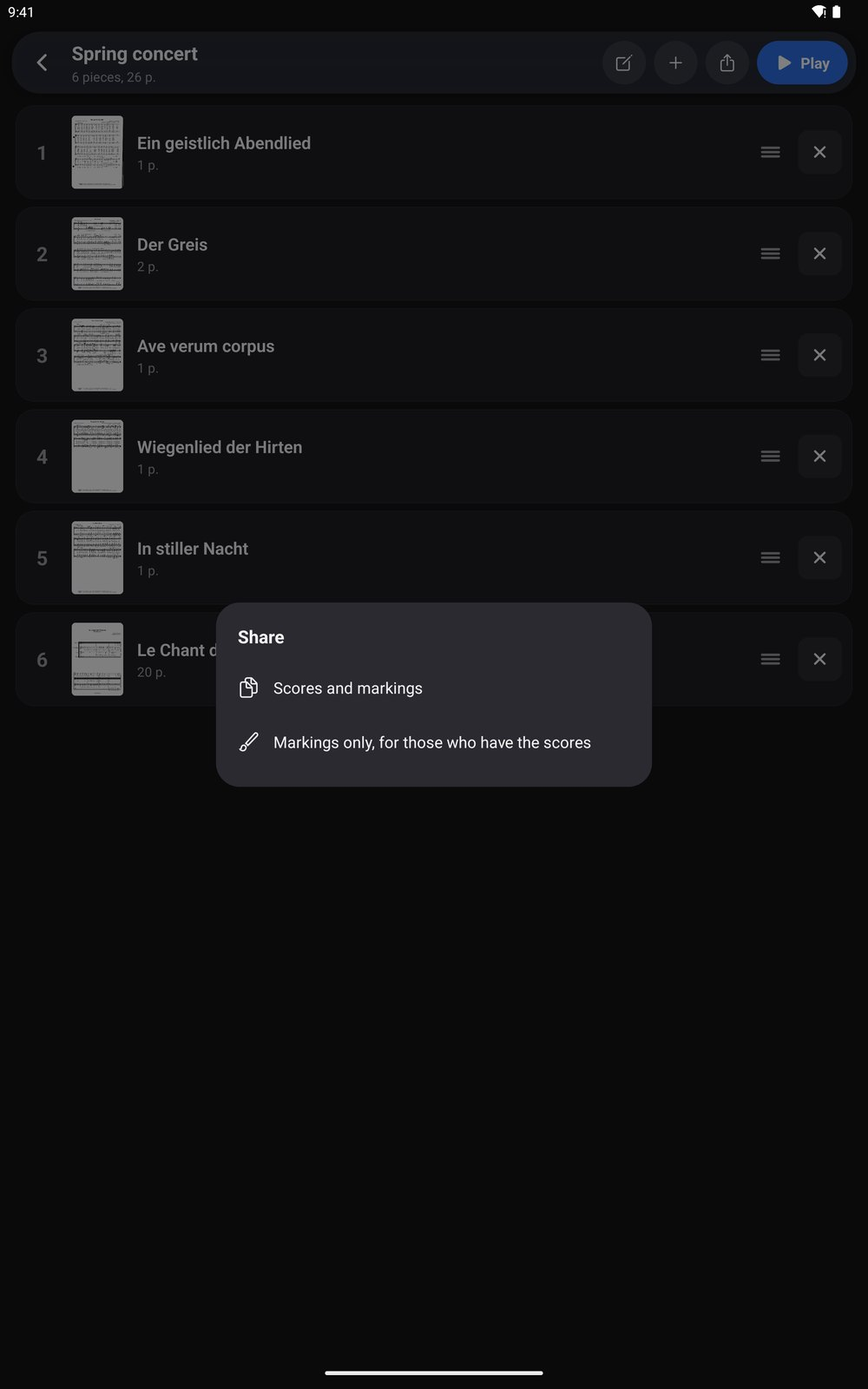
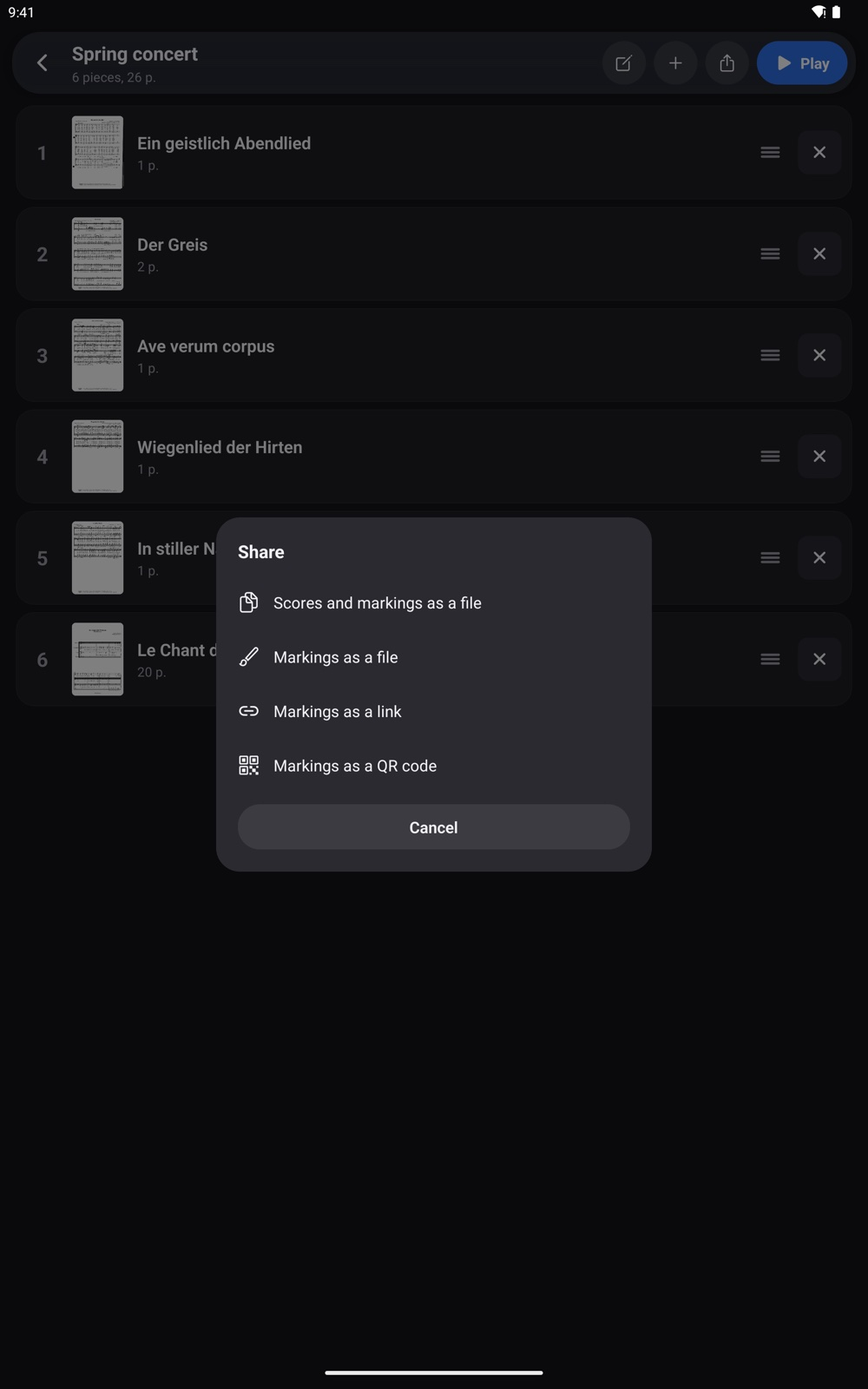
Site from stavora 8f461a3

Changed region(s): [[0.248, 0.375, 0.775, 0.625]]

diff --git a/fi/index.html b/fi/index.html
@@ -94,6 +94,10 @@
   .btn.primary { background: var(--grad); color: #fff; box-shadow: 0 12px 30px -12px rgba(31, 95, 224, 0.8); }
   .btn.ghost { color: var(--ink); border: 1px solid var(--line); background: var(--panel); }
   .soon { font-size: 14px; color: var(--ink-mute); }
+  
+  .minor { list-style: none; padding: 0; margin: 28px 0 0; display: grid; grid-template-columns: repeat(2, 1fr); gap: 14px 32px; color: var(--ink-soft); }
+  @media (max-width: 700px) { .minor { grid-template-columns: 1fr; } }
+  .minor b { color: var(--ink); display: block; }
 
   
   
@@ -173,7 +177,7 @@
       <div>
         <span class="eyebrow">Kuorolaisille ja muusikoille</span>
         <h1><span>Enemmän <em>nuottia.</em></span> <span>Vähemmän paperia.</span></h1>
-        <p class="lead">Stavora rajaa PDF-nuoteista tyhjät marginaalit pois ja suoristaa vinot skannaukset, jotta nuotti täyttää näytön. Merkitse kynällä ja käännä sivua napautuksella tai pedaalilla – kuoroharjoituksessa, konsertissa tai kotona.</p>
+        <p class="lead">Stavora rajaa PDF-nuoteista tyhjät marginaalit pois ja suoristaa vinot skannaukset, jotta nuotti täyttää näytön. Merkitse kynällä ja käännä sivua napautuksella tai pedaalilla – kuoroharjoituksessa, konsertissa tai kotona. Jaa settilista merkintöineen koko kuorolle yhdellä napautuksella.</p>
         <div class="actions">
           <a class="btn primary" href="#features">Katso ominaisuudet</a>
           <span class="soon">Tulossa iPadille ja Android-tableteille, toimii myös puhelimissa</span>
@@ -193,42 +197,49 @@
           <h3>Automaattinen rajaus</h3><p>Tyhjät marginaalit rajataan tuonnissa pois, myös skannatuista nuoteista. Reunoille kirjoitetut merkinnät säilyvät, rei'itykset ja roskat jäävät pois. Harmaa skannauspaperi kirkastuu valkoiseksi.</p>
         </div>
         <div class="feature">
-          <div class="ico"><svg width="24" height="24" viewBox="0 0 24 24" fill="none" stroke="currentColor" stroke-width="2" stroke-linecap="round" stroke-linejoin="round"><path d="M12 20h9M16.5 3.5a2.1 2.1 0 0 1 3 3L7 19l-4 1 1-4z"/></svg></div>
-          <h3>Merkinnät kynällä</h3><p>Kirjoita suoraan nuottiin: neljä väriä, korostuskynä, tekstimerkinnät, pyyhekumi ja kumoa. Aktiivikynällä kirjoitus alkaa heti, sormella käännät sivua. Alkuperäistä PDF:ää ei muuteta.</p>
-        </div>
-        <div class="feature">
           <div class="ico"><svg width="24" height="24" viewBox="0 0 24 24" fill="none" stroke="currentColor" stroke-width="2" stroke-linecap="round"><path d="M8 6h13M8 12h13M8 18h13M3 6h.01M3 12h.01M3 18h.01"/></svg></div>
           <h3>Settilistat</h3><p>Kokoa konsertin ohjelma raahaamalla. Viimeisen sivun jälkeen auki tulee suoraan seuraava kappale, ja nurkassa näkyy, mitä on tulossa.</p>
-        </div>
-        <div class="feature">
-          <div class="ico"><svg width="24" height="24" viewBox="0 0 24 24" fill="none" stroke="currentColor" stroke-width="2" stroke-linecap="round" stroke-linejoin="round"><rect x="3" y="14" width="8" height="6" rx="2"/><rect x="13" y="14" width="8" height="6" rx="2"/><path d="M7 14V9a5 5 0 0 1 10 0v5"/></svg></div>
-          <h3>Sivunkääntöpedaalit</h3><p>Bluetooth-pedaalit ja näppäimistöt kääntävät sivua: nuolinäppäimet, Page Up/Down, välilyönti ja Enter.</p>
-        </div>
-        <div class="feature">
-          <div class="ico"><svg width="24" height="24" viewBox="0 0 24 24" fill="none" stroke="currentColor" stroke-width="2" stroke-linecap="round" stroke-linejoin="round"><path d="M14 3H7a2 2 0 0 0-2 2v14a2 2 0 0 0 2 2h10a2 2 0 0 0 2-2V8z"/><path d="M14 3v5h5M12 18v-6M9 15l3 3 3-3"/></svg></div>
-          <h3>Tiedostoista ja pilvestä</h3><p>Valitse kerralla useita PDF:iä laitteelta tai pilvipalvelusta, kuten iCloud Drivesta, Google Drivesta tai Dropboxista. PDF:n voi myös avata toisesta sovelluksesta suoraan Stavoraan, ja koko kansion saa tuotua ZIP-tiedostona.</p>
-        </div>
-        <div class="feature">
-          <div class="ico"><svg width="24" height="24" viewBox="0 0 24 24" fill="none" stroke="currentColor" stroke-width="2" stroke-linecap="round" stroke-linejoin="round"><rect x="5" y="2" width="14" height="20" rx="2"/><path d="M12 18h.01"/></svg></div>
-          <h3>Tabletti ja puhelin</h3><p>Suunniteltu tabletille pystyasentoon, toimii myös puhelimessa. Vaakatasossa tabletti näyttää kaksi sivua, puhelin etenee nuottirivi kerrallaan.</p>
-        </div>
-        <div class="feature">
-          <div class="ico"><svg width="24" height="24" viewBox="0 0 24 24" fill="none" stroke="currentColor" stroke-width="2" stroke-linecap="round" stroke-linejoin="round"><path d="M5 21V4h11l-1.5 4L16 12H5"/></svg></div>
-          <h3>Harjoiteltavat kohdat</h3><p>Merkitse lipulla kohdat, joita pitää treenata. Kirjasto näyttää ne yhdellä napautuksella ja avaa suoraan oikean sivun.</p>
         </div>
         <div class="feature">
           <div class="ico"><svg width="24" height="24" viewBox="0 0 24 24" fill="none" stroke="currentColor" stroke-width="2" stroke-linecap="round" stroke-linejoin="round"><path d="M12 3v12M7 8l5-5 5 5M5 13v6a2 2 0 0 0 2 2h10a2 2 0 0 0 2-2v-6"/></svg></div>
           <h3>Jaa kuorolle tai bändille</h3><p>Settilista, nuotit ja merkinnät yhdessä paketissa, päivitykset pelkkinä merkintöinä. Jokaisen omat merkinnät säilyvät.</p>
         </div>
-        <div class="feature">
-          <div class="ico"><svg width="24" height="24" viewBox="0 0 24 24" fill="none" stroke="currentColor" stroke-width="2" stroke-linecap="round" stroke-linejoin="round"><path d="M9 18V5l11-2v13"/><circle cx="6" cy="18" r="3"/><circle cx="17" cy="16" r="3"/></svg></div>
-          <h3>Sävel ja metronomi</h3><p>Aloitussävel koskettimilta ja metronomi napautustempolla nuotin päällä kelluvassa paneelissa, myös äänettömällä.</p>
-        </div>
+      </div>
+      <ul class="minor">
+        <li><b>Harjoiteltavat kohdat</b> Merkitse lipulla kohdat, joita pitää treenata. Kirjasto näyttää ne yhdellä napautuksella ja avaa suoraan oikean sivun.</li>
+        <li><b>Merkinnät kynällä</b> Kirjoita suoraan nuottiin: neljä väriä, korostuskynä, tekstimerkinnät, pyyhekumi ja kumoa. Aktiivikynällä kirjoitus alkaa heti, sormella käännät sivua. Alkuperäistä PDF:ää ei muuteta.</li>
+        <li><b>Sävel ja metronomi</b> Aloitussävel koskettimilta ja metronomi napautustempolla nuotin päällä kelluvassa paneelissa, myös äänettömällä.</li>
+        <li><b>Sivunkääntöpedaalit</b> Bluetooth-pedaalit ja näppäimistöt kääntävät sivua: nuolinäppäimet, Page Up/Down, välilyönti ja Enter.</li>
+        <li><b>Tiedostoista ja pilvestä</b> Valitse kerralla useita PDF:iä laitteelta tai pilvipalvelusta, kuten iCloud Drivesta, Google Drivesta tai Dropboxista. PDF:n voi myös avata toisesta sovelluksesta suoraan Stavoraan, ja koko kansion saa tuotua ZIP-tiedostona.</li>
+        <li><b>Tabletti ja puhelin</b> Suunniteltu tabletille pystyasentoon, toimii myös puhelimessa. Vaakatasossa tabletti näyttää kaksi sivua, puhelin etenee nuottirivi kerrallaan.</li>
+      </ul>
+    </div>
+  </section>
+
+  
+  <section id="choir">
+    <div class="wrap">
+      <span class="eyebrow">Kuoroille ja bändeille</span>
+      <h2>Koko kuoro samalla sivulla</h2>
+      <p class="intro">Kuoronjohtaja merkitsee harjoiteltavat kohdat ja jakaa settilistan merkintöineen. Jokainen saa ne omaan nuottiinsa, ja omat merkinnät pysyvät omina.</p>
+      <div class="showcase">
+        <figure>
+          <div class="tablet"><img src="../assets/screens/practice.jpg" alt="Harjoiteltava kohta merkittynä oranssilla laatikolla ja lipulla" width="1000" height="1600" loading="lazy"></div>
+          <figcaption><b>Harjoiteltavat kohdat.</b> Lipulla merkitty kohta löytyy kirjastosta yhdellä napautuksella, ja sen saa pois, kun se on harjoiteltu.</figcaption>
+        </figure>
+        <figure>
+          <div class="tablet"><img src="../assets/screens/share.jpg" alt="Settilistan jako: nuotit ja merkinnät tai vain merkinnät" width="1000" height="1600" loading="lazy"></div>
+          <figcaption><b>Jaa kuorolle tai bändille.</b> Koko paketti kauden alkuun vaikka Driveen, viikon päivitykset WhatsAppiin. Ei tiliä eikä palvelinta.</figcaption>
+        </figure>
+        <figure>
+          <div class="tablet"><img src="../assets/screens/tools.jpg" alt="Sävelpilli koskettimineen nuotin päällä" width="1000" height="1600" loading="lazy"></div>
+          <figcaption><b>Sävel ja metronomi.</b> Aloitussävel ja tempo suoraan nuotista, ilman toista sovellusta.</figcaption>
+        </figure>
       </div>
     </div>
   </section>
 
-  <section>
+  <section class="alt">
     <div class="wrap">
       <h2>Kaikki olennainen, ei mitään ylimääräistä</h2>
       <p class="intro">Lukiessa näytöllä on vain nuotti. Työkalut tulevat esiin napauttamalla sivun keskeltä, kynätila pitämällä sormea hetken paikallaan.</p>
@@ -249,7 +260,7 @@
     </div>
   </section>
 
-  <section id="landscape" class="alt">
+  <section id="landscape">
     <div class="wrap">
       <h2>Kaksi sivua kerralla</h2>
       <p class="intro">Käännä tabletti vaakaan, niin näet kaksi sivua rinnakkain ja käännät harvemmin. Merkinnät kulkevat mukana.</p>
@@ -257,7 +268,7 @@
     </div>
   </section>
 
-  <section id="setlists">
+  <section id="setlists" class="alt">
     <div class="wrap split">
       <div>
         <h2>Konsertti yhtenä nuottina</h2>
@@ -272,28 +283,6 @@
     </div>
   </section>
 
-  
-  <section id="choir" class="alt">
-    <div class="wrap">
-      <span class="eyebrow">Uutta</span>
-      <h2>Koko kuoro samalla sivulla</h2>
-      <p class="intro">Kuoronjohtaja merkitsee harjoiteltavat kohdat ja jakaa settilistan merkintöineen. Jokainen saa ne omaan nuottiinsa, ja omat merkinnät pysyvät omina.</p>
-      <div class="showcase">
-        <figure>
-          <div class="tablet"><img src="../assets/screens/practice.jpg" alt="Harjoiteltava kohta merkittynä oranssilla laatikolla ja lipulla" width="1000" height="1600" loading="lazy"></div>
-          <figcaption><b>Harjoiteltavat kohdat.</b> Lipulla merkitty kohta löytyy kirjastosta yhdellä napautuksella, ja sen saa pois, kun se on harjoiteltu.</figcaption>
-        </figure>
-        <figure>
-          <div class="tablet"><img src="../assets/screens/share.jpg" alt="Settilistan jako: nuotit ja merkinnät tai vain merkinnät" width="1000" height="1600" loading="lazy"></div>
-          <figcaption><b>Jaa kuorolle tai bändille.</b> Koko paketti kauden alkuun vaikka Driveen, viikon päivitykset WhatsAppiin. Ei tiliä eikä palvelinta.</figcaption>
-        </figure>
-        <figure>
-          <div class="tablet"><img src="../assets/screens/tools.jpg" alt="Sävelpilli koskettimineen nuotin päällä" width="1000" height="1600" loading="lazy"></div>
-          <figcaption><b>Sävel ja metronomi.</b> Aloitussävel ja tempo suoraan nuotista, ilman toista sovellusta.</figcaption>
-        </figure>
-      </div>
-    </div>
-  </section>
 
   <section id="themes">
     <div class="wrap split">
@@ -327,7 +316,7 @@
         <p class="intro">Stavora toimii kokonaan laitteellasi.</p>
         <ul class="checks">
           <li><span>Ei käyttäjätiliä, ei mainoksia eikä seurantaa.</span></li>
-          <li><span>PDF:t ja merkinnät tallentuvat vain laitteelle. Sovellus ei lähetä niitä minnekään.</span></li>
+          <li><span>PDF:t ja merkinnät tallentuvat vain laitteelle. Ne lähtevät sieltä vain, kun itse jaat ne.</span></li>
           <li><span>PDF:t piirtää käyttöjärjestelmän oma PDF-moottori.</span></li>
           <li><span>Varmuuskopio on yksi ZIP-tiedosto, jonka tallennat itse haluamaasi paikkaan.</span></li>
         </ul>

diff --git a/index.html b/index.html
@@ -95,6 +95,10 @@
   .btn.primary { background: var(--grad); color: #fff; box-shadow: 0 12px 30px -12px rgba(31, 95, 224, 0.8); }
   .btn.ghost { color: var(--ink); border: 1px solid var(--line); background: var(--panel); }
   .soon { font-size: 14px; color: var(--ink-mute); }
+  
+  .minor { list-style: none; padding: 0; margin: 28px 0 0; display: grid; grid-template-columns: repeat(2, 1fr); gap: 14px 32px; color: var(--ink-soft); }
+  @media (max-width: 700px) { .minor { grid-template-columns: 1fr; } }
+  .minor b { color: var(--ink); display: block; }
 
   
   
@@ -174,7 +178,7 @@
       <div>
         <span class="eyebrow">For choir singers and musicians</span>
         <h1><span>More <em>music.</em></span> <span>Less paper.</span></h1>
-        <p class="lead">Stavora trims the empty margins from your PDF scores and straightens crooked scans so the music fills the screen. Mark it with a pen and turn pages with a tap or a pedal – in rehearsal, on stage or practising at home.</p>
+        <p class="lead">Stavora trims the empty margins from your PDF scores and straightens crooked scans so the music fills the screen. Mark it with a pen and turn pages with a tap or a pedal – in rehearsal, on stage or practising at home. Share a setlist with its markings with the whole choir in one tap.</p>
         <div class="actions">
           <a class="btn primary" href="#features">See the features</a>
           <span class="soon">Coming to iPad and Android tablets, works on phones too</span>
@@ -194,42 +198,49 @@
           <h3>Automatic cropping</h3><p>Empty margins are trimmed on import, scanned scores included. Notes written in the margins stay, hole punches and specks go, and grey scanned paper turns white.</p>
         </div>
         <div class="feature">
-          <div class="ico"><svg width="24" height="24" viewBox="0 0 24 24" fill="none" stroke="currentColor" stroke-width="2" stroke-linecap="round" stroke-linejoin="round"><path d="M12 20h9M16.5 3.5a2.1 2.1 0 0 1 3 3L7 19l-4 1 1-4z"/></svg></div>
-          <h3>Pen markings</h3><p>Write straight onto the score: four colours, a highlighter, text notes, an eraser and undo. With an active stylus you just start writing; your finger turns the page. The original PDF is never changed.</p>
-        </div>
-        <div class="feature">
           <div class="ico"><svg width="24" height="24" viewBox="0 0 24 24" fill="none" stroke="currentColor" stroke-width="2" stroke-linecap="round"><path d="M8 6h13M8 12h13M8 18h13M3 6h.01M3 12h.01M3 18h.01"/></svg></div>
           <h3>Setlists</h3><p>Put the concert programme together by dragging. After a piece's last page comes the next piece, and the corner shows what's next.</p>
-        </div>
-        <div class="feature">
-          <div class="ico"><svg width="24" height="24" viewBox="0 0 24 24" fill="none" stroke="currentColor" stroke-width="2" stroke-linecap="round" stroke-linejoin="round"><rect x="3" y="14" width="8" height="6" rx="2"/><rect x="13" y="14" width="8" height="6" rx="2"/><path d="M7 14V9a5 5 0 0 1 10 0v5"/></svg></div>
-          <h3>Page-turn pedals</h3><p>Bluetooth pedals and keyboards turn pages: arrow keys, Page Up/Down, Space and Enter.</p>
-        </div>
-        <div class="feature">
-          <div class="ico"><svg width="24" height="24" viewBox="0 0 24 24" fill="none" stroke="currentColor" stroke-width="2" stroke-linecap="round" stroke-linejoin="round"><path d="M14 3H7a2 2 0 0 0-2 2v14a2 2 0 0 0 2 2h10a2 2 0 0 0 2-2V8z"/><path d="M14 3v5h5M12 18v-6M9 15l3 3 3-3"/></svg></div>
-          <h3>From files and the cloud</h3><p>Pick several PDFs at once from the device or a cloud service such as iCloud Drive, Google Drive or Dropbox. You can also open a PDF from another app straight into Stavora, or bring in a whole folder as a ZIP.</p>
-        </div>
-        <div class="feature">
-          <div class="ico"><svg width="24" height="24" viewBox="0 0 24 24" fill="none" stroke="currentColor" stroke-width="2" stroke-linecap="round" stroke-linejoin="round"><rect x="5" y="2" width="14" height="20" rx="2"/><path d="M12 18h.01"/></svg></div>
-          <h3>Tablet and phone</h3><p>Designed for a tablet in portrait, and works on a phone too. In landscape a tablet shows two pages; a phone moves on one line of music at a time.</p>
-        </div>
-        <div class="feature">
-          <div class="ico"><svg width="24" height="24" viewBox="0 0 24 24" fill="none" stroke="currentColor" stroke-width="2" stroke-linecap="round" stroke-linejoin="round"><path d="M5 21V4h11l-1.5 4L16 12H5"/></svg></div>
-          <h3>Passages to practise</h3><p>Mark with the flag what needs work. The library lists those scores with one tap and opens each at the right page.</p>
         </div>
         <div class="feature">
           <div class="ico"><svg width="24" height="24" viewBox="0 0 24 24" fill="none" stroke="currentColor" stroke-width="2" stroke-linecap="round" stroke-linejoin="round"><path d="M12 3v12M7 8l5-5 5 5M5 13v6a2 2 0 0 0 2 2h10a2 2 0 0 0 2-2v-6"/></svg></div>
           <h3>Share with the choir or band</h3><p>The setlist, scores and markings in one package, and updates as markings only. Everyone’s own markings stay.</p>
         </div>
-        <div class="feature">
-          <div class="ico"><svg width="24" height="24" viewBox="0 0 24 24" fill="none" stroke="currentColor" stroke-width="2" stroke-linecap="round" stroke-linejoin="round"><path d="M9 18V5l11-2v13"/><circle cx="6" cy="18" r="3"/><circle cx="17" cy="16" r="3"/></svg></div>
-          <h3>Pitch and metronome</h3><p>The starting note from a keyboard and a metronome with tap tempo, floating over the score, with the silent switch on too.</p>
-        </div>
+      </div>
+      <ul class="minor">
+        <li><b>Passages to practise</b> Mark with the flag what needs work. The library lists those scores with one tap and opens each at the right page.</li>
+        <li><b>Pen markings</b> Write straight onto the score: four colours, a highlighter, text notes, an eraser and undo. With an active stylus you just start writing; your finger turns the page. The original PDF is never changed.</li>
+        <li><b>Pitch and metronome</b> The starting note from a keyboard and a metronome with tap tempo, floating over the score, with the silent switch on too.</li>
+        <li><b>Page-turn pedals</b> Bluetooth pedals and keyboards turn pages: arrow keys, Page Up/Down, Space and Enter.</li>
+        <li><b>From files and the cloud</b> Pick several PDFs at once from the device or a cloud service such as iCloud Drive, Google Drive or Dropbox. You can also open a PDF from another app straight into Stavora, or bring in a whole folder as a ZIP.</li>
+        <li><b>Tablet and phone</b> Designed for a tablet in portrait, and works on a phone too. In landscape a tablet shows two pages; a phone moves on one line of music at a time.</li>
+      </ul>
+    </div>
+  </section>
+
+  
+  <section id="choir">
+    <div class="wrap">
+      <span class="eyebrow">For choirs and bands</span>
+      <h2>The whole choir on the same page</h2>
+      <p class="intro">The conductor marks the passages to practise and shares the setlist with the markings. Everyone gets them in their own scores, and their own markings stay their own.</p>
+      <div class="showcase">
+        <figure>
+          <div class="tablet"><img src="./assets/screens/practice.jpg" alt="A passage to practise marked with an orange box and a flag" width="1000" height="1600" loading="lazy"></div>
+          <figcaption><b>Passages to practise.</b> A passage marked with the flag is a tap away in the library, and gone again once practised.</figcaption>
+        </figure>
+        <figure>
+          <div class="tablet"><img src="./assets/screens/share.jpg" alt="Sharing a setlist: scores and markings, or markings only" width="1000" height="1600" loading="lazy"></div>
+          <figcaption><b>Share with the choir or band.</b> The whole package for the start of the season in Drive, the week’s updates in WhatsApp. No account, no server.</figcaption>
+        </figure>
+        <figure>
+          <div class="tablet"><img src="./assets/screens/tools.jpg" alt="The pitch pipe’s keyboard over the score" width="1000" height="1600" loading="lazy"></div>
+          <figcaption><b>Pitch and metronome.</b> The starting note and the tempo right from the score, without another app.</figcaption>
+        </figure>
       </div>
     </div>
   </section>
 
-  <section>
+  <section class="alt">
     <div class="wrap">
       <h2>Everything you need, nothing you don't</h2>
       <p class="intro">While you read, only the music is on screen. Tap the middle of the page for the tools, or hold a finger still for a moment to start marking.</p>
@@ -250,7 +261,7 @@
     </div>
   </section>
 
-  <section id="landscape" class="alt">
+  <section id="landscape">
     <div class="wrap">
       <h2>Two pages at a time</h2>
       <p class="intro">Turn the tablet to landscape to see two pages side by side and turn less often. Your markings come along.</p>
@@ -258,7 +269,7 @@
     </div>
   </section>
 
-  <section id="setlists">
+  <section id="setlists" class="alt">
     <div class="wrap split">
       <div>
         <h2>A whole concert as one score</h2>
@@ -273,28 +284,6 @@
     </div>
   </section>
 
-  
-  <section id="choir" class="alt">
-    <div class="wrap">
-      <span class="eyebrow">New</span>
-      <h2>The whole choir on the same page</h2>
-      <p class="intro">The conductor marks the passages to practise and shares the setlist with the markings. Everyone gets them in their own scores, and their own markings stay their own.</p>
-      <div class="showcase">
-        <figure>
-          <div class="tablet"><img src="./assets/screens/practice.jpg" alt="A passage to practise marked with an orange box and a flag" width="1000" height="1600" loading="lazy"></div>
-          <figcaption><b>Passages to practise.</b> A passage marked with the flag is a tap away in the library, and gone again once practised.</figcaption>
-        </figure>
-        <figure>
-          <div class="tablet"><img src="./assets/screens/share.jpg" alt="Sharing a setlist: scores and markings, or markings only" width="1000" height="1600" loading="lazy"></div>
-          <figcaption><b>Share with the choir or band.</b> The whole package for the start of the season in Drive, the week’s updates in WhatsApp. No account, no server.</figcaption>
-        </figure>
-        <figure>
-          <div class="tablet"><img src="./assets/screens/tools.jpg" alt="The pitch pipe’s keyboard over the score" width="1000" height="1600" loading="lazy"></div>
-          <figcaption><b>Pitch and metronome.</b> The starting note and the tempo right from the score, without another app.</figcaption>
-        </figure>
-      </div>
-    </div>
-  </section>
 
   <section id="themes">
     <div class="wrap split">
@@ -328,7 +317,7 @@
         <p class="intro">Stavora runs entirely on your device.</p>
         <ul class="checks">
           <li><span>No account, no ads, no tracking.</span></li>
-          <li><span>PDFs and markings are stored only on the device. The app never sends them anywhere.</span></li>
+          <li><span>PDFs and markings are stored on the device only. They leave it only when you share them yourself.</span></li>
           <li><span>PDFs are drawn by the operating system's own PDF engine.</span></li>
           <li><span>A backup is one ZIP file that you save wherever you like.</span></li>
         </ul>

diff --git a/fi/docs/index.html b/fi/docs/index.html
@@ -66,7 +66,7 @@
   <h2 id="import">Nuottien tuonti</h2>
   <p>Paina kirjastossa <b>Tuo</b> ja valitse PDF-tiedostot. Voit valita kerralla useita, ja ne tulevat kirjastoon yhdellä kertaa. Androidilla pidä ensimmäistä tiedostoa painettuna, napauta muut ja paina <b>Valitse</b>. Valitsimesta pääsee pois takaisin-eleellä.</p><h3>Pilvipalvelut</h3><p>Tuonnissa näkyvät laitteen omat kansiot ja ne pilvipalvelut, joiden sovellus on asennettu, esimerkiksi iCloud Drive, Google Drive, Dropbox tai OneDrive.</p><p>iPadilla ja iPhonella iCloud Drive on mukana valmiiksi. Muut palvelut otetaan käyttöön Tiedostot-sovelluksessa: avaa sivupalkin <b>•••</b>-valikko, valitse <b>Muokkaa sivupalkkia</b> ja kytke palvelu päälle kohdassa Sijainnit. Androidilla palvelut näkyvät tiedostovalitsimessa valmiiksi. Sinulle jaetut kansiot löytyvät Google Drivessa kohdasta <b>Jaettu minulle</b>.</p><h3>Toisesta sovelluksesta</h3><p>Avaa PDF esimerkiksi Drivessa, Dropboxissa, sähköpostissa tai Tiedostoissa ja valitse <b>Avaa sovelluksessa</b> tai <b>Jaa → Stavora</b>. Androidilla jakaa voi useita PDF-tiedostoja kerralla. Nuotti avautuu heti.</p><h3>Koko kansio kerralla</h3><p>Tuo kansio ZIP-tiedostona. Google Drive ja Dropbox pakkaavat kansion ZIPiksi, kun lataat sen, ja Tiedostot-sovelluksessa kansion saa pakattua valinnalla <b>Pakkaa</b>. Nuotit tulevat samassa järjestyksessä kuin kansiossa, ja sovellus tarjoutuu tekemään niistä kansion nimisen settilistan.</p><p class="tip">Saman tiedoston tuominen uudelleen ei tee kaksoiskappaletta, vaan avaa jo kirjastossa olevan nuotin merkintöineen.</p>
   <h2 id="reading">Lukeminen</h2>
-  <ul><li><b>Sivun kääntö:</b> napauta sivun oikeaa tai vasenta reunaa tai pyyhkäise sivuttain. Reunojen leveyden voi säätää asetuksissa.</li><li><b>Työkalut:</b> napauta sivun keskeltä. Alareunassa näkyvät kaikki sivut, ja niistä pääsee suoraan haluamalleen sivulle.</li><li><b>Zoomaus:</b> nipistä. Zoomattua sivua vieritetään yhdellä sormella, ja kaksoisnapautus palauttaa koko sivun.</li><li><b>Vaakatasossa</b> tabletti näyttää kaksi sivua rinnakkain. Puhelimessa sivu täyttää leveyden ja kääntö etenee nuottirivi kerrallaan.</li><li><b>Sulkeminen:</b> takaisin-nuoli tai pitkä pyyhkäisy ylöspäin. Kun avaat nuotin kahden tunnin sisällä uudelleen, se jatkuu samalta sivulta, muuten se alkaa alusta.</li><li><b>Pedaalit:</b> Bluetooth-sivunkääntöpedaalit ja näppäimistöt toimivat ilman asetuksia: nuolinäppäimet, Page Up/Down, välilyönti ja Enter.</li></ul><p>Sovellus muistaa, mihin sivuun jäit, ja näyttö pysyy päällä nuottia luettaessa.</p>
+  <ul><li><b>Sivun kääntö:</b> napauta sivun oikeaa tai vasenta reunaa tai pyyhkäise sivuttain. Reunojen leveyden voi säätää asetuksissa.</li><li><b>Työkalut:</b> napauta sivun keskeltä. Alareunassa näkyvät kaikki sivut, ja niistä pääsee suoraan haluamalleen sivulle.</li><li><b>Zoomaus:</b> nipistä. Zoomattua sivua vieritetään yhdellä sormella, ja kaksoisnapautus palauttaa koko sivun.</li><li><b>Vaakatasossa</b> tabletti näyttää kaksi sivua rinnakkain. Puhelimessa sivu täyttää leveyden ja kääntö etenee nuottirivi kerrallaan.</li><li><b>Sulkeminen:</b> takaisin-nuoli tai pitkä pyyhkäisy ylös tai alas. Kun avaat nuotin kahden tunnin sisällä uudelleen, se jatkuu samalta sivulta, muuten se alkaa alusta.</li><li><b>Pedaalit:</b> Bluetooth-sivunkääntöpedaalit ja näppäimistöt toimivat ilman asetuksia: nuolinäppäimet, Page Up/Down, välilyönti ja Enter.</li></ul><p>Sovellus muistaa, mihin sivuun jäit, ja näyttö pysyy päällä nuottia luettaessa.</p>
   <h2 id="marking">Merkinnät</h2>
   <p>Kynätila avautuu työkalurivin kynäpainikkeesta tai pitämällä sormea hetken paikallaan sivulla. Valittavana ovat kynä neljällä värillä, korostuskynä, teksti (<b>Aa</b>), pyyhekumi ja kumoa. Sivua voi vaihtaa kynätilassakin. Tila suljetaan painamalla <b>✓</b>.</p><h3>Teksti</h3><p>Valitse <b>Aa</b> ja napauta kohtaa, johon haluat tekstin. Kirjoita teksti suoraan nuottiin. Olemassa olevaa tekstiä muokataan napauttamalla ja siirretään vetämällä.</p><h3>Harjoiteltavat kohdat</h3><p>Valitse kynätilassa lippu ja vedä laatikko harjoiteltavan kohdan ympärille. Laatikkoon tarttumalla sen voi siirtää ja kulmasta tarttumalla muuttaa sen kokoa. Kirjaston lippupainike näyttää nuotit, joissa on harjoiteltavaa, ja avaa ne suoraan oikealta sivulta. Kun kohta on harjoiteltu, poista laatikko kynätilassa sen kulman ✕-painikkeesta, tai kaikki kerralla lippunäkymän painikkeesta. Lukutilassa ✕ ei näy, joten konsertissa sitä ei napauta vahingossa.</p><h3>Kynällä ilman kynätilaa</h3><p>Aktiivikynällä (Apple Pencil, Tab Pen tms.) voit kirjoittaa suoraan lukutilassa: kynä piirtää ja sormi kääntää sivua. Viimeisen merkinnän kumoamiseen ilmestyy hetkeksi <b>Kumoa</b>-painike. Kynätilassa voit asettaa <b>Vain kynä piirtää</b> -asetuksen, jolloin sormi ei piirrä vahingossa.</p><p class="tip">Merkinnät tallentuvat erikseen, eikä alkuperäistä PDF:ää muuteta.</p>
   <h2 id="crop">Rajaus ja suoristus</h2>
@@ -75,7 +75,7 @@
   <p>Avaa kirjastosta <b>Settilistat</b> ja valitse <b>Uusi settilista</b>. Napauta kappaleita siinä järjestyksessä kuin ne lauletaan. Järjestystä voi muuttaa vetämällä rivin oikean reunan kahvasta. Nuotteja saa lisättyä settilistaan myös kirjastosta: yhden pitämällä nuottia painettuna, useita kerralla valinnalla <b>Valitse useita</b>.</p><p>Kun painat <b>Aloita</b>, kappaleet ovat peräkkäin kuin yhtenä vihkona: viimeisen sivun jälkeen avautuu seuraavan kappaleen alku. Kappaleen viimeisellä sivulla nurkassa näkyy seuraava kappale, ja työkaluriviltä pääsee hyppäämään mihin tahansa kappaleeseen.</p>
 
   <h2 id="sharing">Jakaminen kuorolle tai bändille</h2>
-  <p>Avaa settilista ja paina <b>Jaa</b>. Valitse, mitä pakettiin tulee:</p><ul><li><b>Nuotit ja merkinnät:</b> PDF:t, kappaleiden nimet, rajaukset ja merkintäsi yhdessä ZIP-tiedostossa. Sopii kauden alkuun, esimerkiksi kuoron Driveen.</li><li><b>Vain merkinnät:</b> pieni päivitys niille, joilla nuotit jo ovat, ZIP-tiedostona.</li><li><b>Linkki:</b> sama pieni päivitys linkkinä, esimerkiksi viikon harjoituskohdat WhatsAppiin. Linkin napautus avaa Stavoran ja tuo merkinnät. Jos merkintöjä on liikaa yhteen linkkiin, jaa ne tiedostona.</li><li><b>QR-koodi:</b> sama linkki koodina harjoituksiin. Näytä koodi tabletilta, ja laulajat skannaavat sen puhelimen kameralla. Mitään ei kulje verkon kautta: koodi on itse päivitys.</li></ul><p>Vastaanottaja avaa ZIP-tiedoston <b>Tuo</b>-painikkeella tai valitsemalla <b>Jaa → Stavora</b>. Settilista syntyy samassa järjestyksessä, ja myöhempi paketti päivittää saman listan.</p><p>Jakajan merkinnät tulevat omana kerroksenaan. Seuraava paketti korvaa ne, mutta vastaanottajan omat merkinnät säilyvät. Nuotit tunnistetaan tiedoston sisällöstä, joten merkinnät osuvat kohdalleen, kun kaikilla on sama PDF, esimerkiksi samasta paketista tai Drive-kansiosta.</p><p class="tip">Paketti kulkee vain niitä reittejä, joilla sen itse lähetät. Stavoralla ei ole palvelinta eikä tilejä.</p>
+  <p>Avaa settilista ja paina <b>Jaa</b>. Valitse, mitä pakettiin tulee:</p><ul><li><b>Nuotit ja merkinnät tiedostona:</b> PDF:t, kappaleiden nimet, rajaukset ja merkintäsi yhdessä ZIP-tiedostossa. Sopii kauden alkuun, esimerkiksi kuoron Driveen.</li><li><b>Merkinnät tiedostona:</b> pieni päivitys niille, joilla nuotit jo ovat, ZIP-tiedostona.</li><li><b>Merkinnät linkkinä:</b> sama pieni päivitys linkkinä, esimerkiksi viikon harjoituskohdat WhatsAppiin. Linkin napautus avaa Stavoran ja tuo merkinnät. Jos merkintöjä on liikaa yhteen linkkiin, jaa ne tiedostona.</li><li><b>Merkinnät QR-koodina:</b> sama linkki koodina harjoituksiin. Näytä koodi tabletilta, ja laulajat skannaavat sen puhelimen kameralla. Mitään ei kulje verkon kautta: koodi on itse päivitys.</li></ul><p>Vastaanottaja avaa ZIP-tiedoston <b>Tuo</b>-painikkeella tai valitsemalla <b>Jaa → Stavora</b>. Settilista syntyy samassa järjestyksessä, ja myöhempi paketti päivittää saman listan.</p><p>Jakajan merkinnät tulevat omana kerroksenaan. Seuraava paketti korvaa ne, mutta vastaanottajan omat merkinnät säilyvät. Nuotit tunnistetaan tiedoston sisällöstä, joten merkinnät osuvat kohdalleen, kun kaikilla on sama PDF, esimerkiksi samasta paketista tai Drive-kansiosta.</p><p class="tip">Paketti kulkee vain niitä reittejä, joilla sen itse lähetät. Stavoralla ei ole palvelinta eikä tilejä.</p>
 
   <h2 id="tools">Sävel ja metronomi</h2>
   <p>Paina nuottinäkymän yläpalkista <b>♪</b>. Paneelissa on kaksi välilehteä:</p><ul><li><b>Sävel:</b> napauta kosketinta, niin sävel soi hetken, tai pidä sitä painettuna, niin sävel soi niin kauan kuin pidät. Oktaavia vaihdetaan −- ja +-painikkeilla.</li><li><b>Metronomi:</b> aseta tempo −- ja +-painikkeilla (painettuna pitäen nopeasti), kirjoittamalla lukemaan tai napauttamalla <b>Napauta</b>-painiketta tahdissa. Valitse iskujen määrä tahdissa. Kun napautat valittua uudelleen, ensimmäistä iskua ei korosteta.</li></ul><p>Napautus nuottiin sulkee paneelin. Metronomi jatkaa soimista, kunnes pysäytät sen tai suljet nuotin, ja <b>♪</b> näkyy silloin korostettuna.</p><p class="tip">Äänet kuuluvat myös äänettömällä. Stavora ei käytä mikrofonia.</p>

diff --git a/docs/index.html b/docs/index.html
@@ -66,7 +66,7 @@
   <h2 id="import">Importing scores</h2>
   <p>In the library, tap <b>Import</b> and pick PDF files. You can pick several at once, and they all come into the library together. On Android, press and hold the first file, tap the others and tap <b>Select</b>. The back gesture leaves the picker.</p><h3>Cloud services</h3><p>Import shows the device's own folders and every cloud service whose app is installed, such as iCloud Drive, Google Drive, Dropbox or OneDrive.</p><p>On iPad and iPhone, iCloud Drive is there from the start. Other services are turned on in the Files app: open the <b>•••</b> menu of the sidebar, choose <b>Edit Sidebar</b> and switch the service on under Locations. On Android, they are in the file picker already. Folders shared with you are under <b>Shared with me</b> in Google Drive.</p><h3>From another app</h3><p>Open a PDF in Drive, Dropbox, your email or Files, for example, and choose <b>Open in app</b> or <b>Share → Stavora</b>. On Android, you can share several PDFs at once. The score opens right away.</p><h3>A whole folder at once</h3><p>Bring the folder in as a ZIP file. Google Drive and Dropbox pack a folder into a ZIP when you download it, and in the Files app you can choose <b>Compress</b>. The scores come in the folder's order, and the app offers to make them a setlist named after the folder.</p><p class="tip">Importing the same file again makes no copy: it opens the score already in the library, markings and all.</p>
   <h2 id="reading">Reading</h2>
-  <ul><li><b>Turning pages:</b> tap the right or left edge of the page, or swipe sideways. The width of the edges can be adjusted in the settings.</li><li><b>Tools:</b> tap the middle of the page. All the pages show along the bottom, and you can jump straight to any of them.</li><li><b>Zoom:</b> pinch. Scroll a zoomed page with one finger, and double-tap to see the whole page again.</li><li><b>In landscape</b> a tablet shows two pages side by side. On a phone the page fills the width and turns move on one line of music at a time.</li><li><b>Closing:</b> the back arrow, or a long swipe up. Opened again within two hours, a score carries on from the same page; later it starts from the beginning.</li><li><b>Pedals:</b> Bluetooth page-turn pedals and keyboards work without setup: arrow keys, Page Up/Down, Space and Enter.</li></ul><p>The app remembers where you left off, and the screen stays on while you read.</p>
+  <ul><li><b>Turning pages:</b> tap the right or left edge of the page, or swipe sideways. The width of the edges can be adjusted in the settings.</li><li><b>Tools:</b> tap the middle of the page. All the pages show along the bottom, and you can jump straight to any of them.</li><li><b>Zoom:</b> pinch. Scroll a zoomed page with one finger, and double-tap to see the whole page again.</li><li><b>In landscape</b> a tablet shows two pages side by side. On a phone the page fills the width and turns move on one line of music at a time.</li><li><b>Closing:</b> the back arrow, or a long swipe up or down. Opened again within two hours, a score carries on from the same page; later it starts from the beginning.</li><li><b>Pedals:</b> Bluetooth page-turn pedals and keyboards work without setup: arrow keys, Page Up/Down, Space and Enter.</li></ul><p>The app remembers where you left off, and the screen stays on while you read.</p>
   <h2 id="marking">Markings</h2>
   <p>Pen mode opens from the pen button in the toolbar, or by holding a finger still on the page for a moment. You get a pen in four colours, a highlighter, text (<b>Aa</b>), an eraser and undo. You can change pages in pen mode too. Close it with <b>✓</b>.</p><h3>Text</h3><p>Choose <b>Aa</b> and tap where you want the text. Type straight onto the score. Tap existing text to edit it, and drag it to move it.</p><h3>Passages to practise</h3><p>In pen mode, choose the flag and drag a box around the passage. Grab a box to move it, or by a corner to resize it. The library's flag button shows the scores with something to practise and opens each at the right page. Once practised, remove a box with the ✕ in its corner in pen mode, or clear them all at once from the flag view. The ✕ does not show while reading, so it is not tapped by accident in a concert.</p><h3>With a stylus, no pen mode needed</h3><p>With an active stylus (Apple Pencil, Tab Pen and the like) you can write straight onto the page while reading: the stylus draws and a finger turns the page. An <b>Undo</b> button appears for a moment to take back the last marking. In pen mode you can set <b>Only the stylus draws</b>, so a finger never draws by accident.</p><p class="tip">Markings are saved separately, and the original PDF is never changed.</p>
   <h2 id="crop">Crop and straighten</h2>
@@ -75,7 +75,7 @@
   <p>Open <b>Setlists</b> in the library and choose <b>New setlist</b>. Tap the pieces in the order they are sung. Change the order by dragging the handle on the right of a row. You can also add scores to a setlist from the library: one by pressing and holding it, several at once with <b>Select several</b>.</p><p>When you tap <b>Play</b>, the pieces run on like one booklet: after the last page comes the start of the next piece. On a piece's last page the corner shows what comes next, and the toolbar lets you jump to any piece.</p>
 
   <h2 id="sharing">Sharing with a choir or band</h2>
-  <p>Open a setlist and tap <b>Share</b>. Choose what goes in the package:</p><ul><li><b>Scores and markings:</b> the PDFs, the pieces' titles, crops and your markings in one ZIP file. For the start of a season, for example in the choir's Drive.</li><li><b>Markings only:</b> a small update for those who have the scores already, as a ZIP file.</li><li><b>Link:</b> the same small update as a link, for example this week's passages to practise in WhatsApp. Tapping the link opens Stavora and brings the markings in. If there are too many markings for one link, share them as a file.</li><li><b>QR code:</b> the same link as a code for rehearsals. Show it on the tablet and the singers scan it with their phone cameras. Nothing goes over a network: the code is the update itself.</li></ul><p>The others open the ZIP file with <b>Import</b> or <b>Share → Stavora</b>. The setlist appears in the same order, and a later package updates the same list.</p><p>Your markings come in as a layer of their own. The next package replaces them, and everyone's own markings stay. Scores are recognised by the file's contents, so the markings land in place when everyone has the same PDF, for example from the same package or Drive folder.</p><p class="tip">The package goes only where you send it. Stavora has no server and no accounts.</p>
+  <p>Open a setlist and tap <b>Share</b>. Choose what goes in the package:</p><ul><li><b>Scores and markings as a file:</b> the PDFs, the pieces' titles, crops and your markings in one ZIP file. For the start of a season, for example in the choir's Drive.</li><li><b>Markings as a file:</b> a small update for those who have the scores already, as a ZIP file.</li><li><b>Markings as a link:</b> the same small update as a link, for example this week's passages to practise in WhatsApp. Tapping the link opens Stavora and brings the markings in. If there are too many markings for one link, share them as a file.</li><li><b>Markings as a QR code:</b> the same link as a code for rehearsals. Show it on the tablet and the singers scan it with their phone cameras. Nothing goes over a network: the code is the update itself.</li></ul><p>The others open the ZIP file with <b>Import</b> or <b>Share → Stavora</b>. The setlist appears in the same order, and a later package updates the same list.</p><p>Your markings come in as a layer of their own. The next package replaces them, and everyone's own markings stay. Scores are recognised by the file's contents, so the markings land in place when everyone has the same PDF, for example from the same package or Drive folder.</p><p class="tip">The package goes only where you send it. Stavora has no server and no accounts.</p>
 
   <h2 id="tools">Pitch and metronome</h2>
   <p>Tap <b>♪</b> in the score’s top bar. The panel has two tabs:</p><ul><li><b>Pitch:</b> tap a key and the note sounds for a moment, or hold it and the note sounds for as long as you hold. Change the octave with − and +.</li><li><b>Metronome:</b> set the tempo with − and + (hold them to go fast), by typing it into the number, or by tapping <b>Tap</b> in time. Choose the beats in a bar; tap the chosen one again and no beat is accented.</li></ul><p>A tap on the score closes the panel. The metronome keeps ticking until you stop it or close the score, and <b>♪</b> stays lit meanwhile.</p><p class="tip">The sounds play with the silent switch on too. Stavora does not use the microphone.</p>
